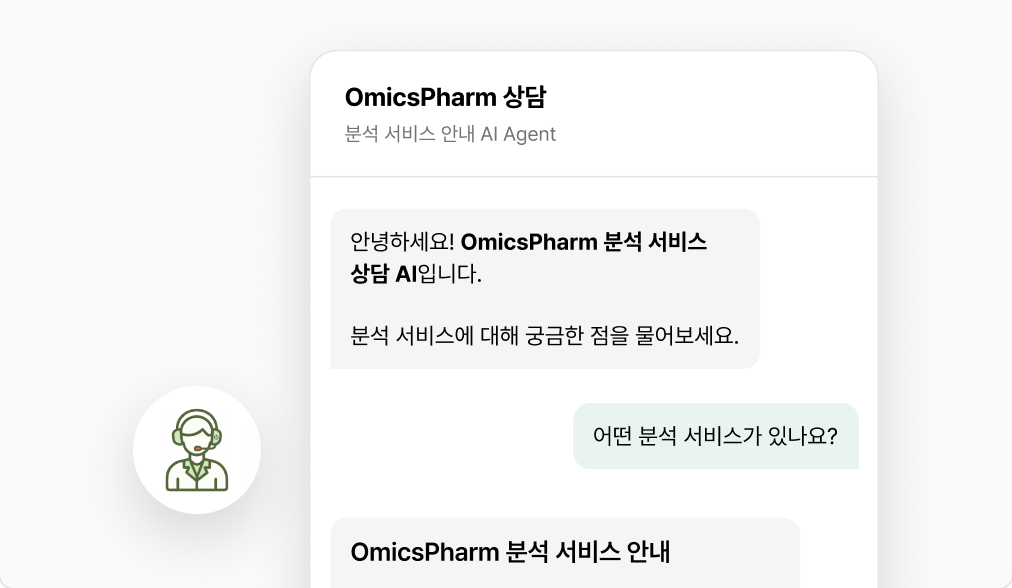
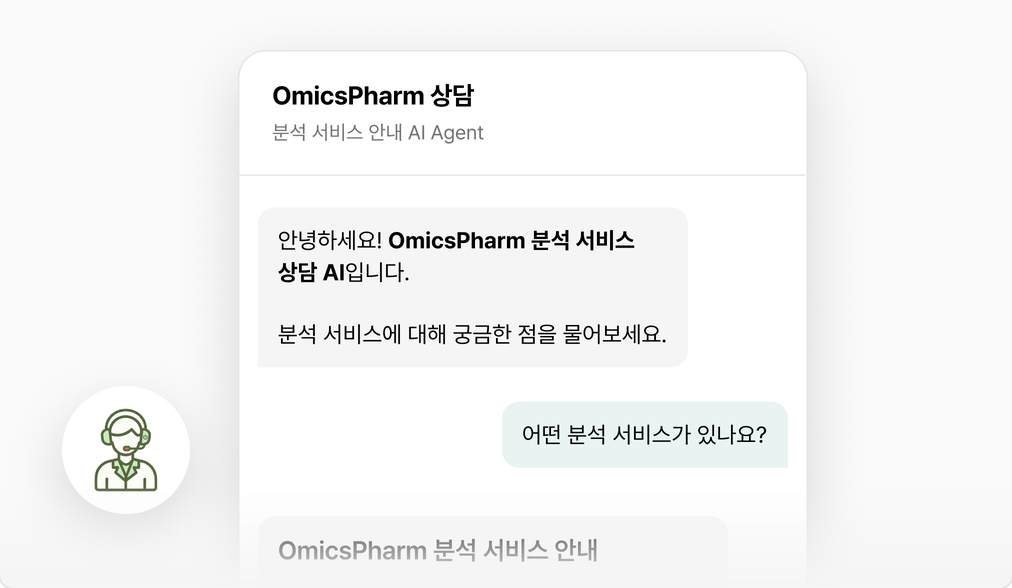
Features: Customer Support 이미지 Figma 재내보내기(상담 화면 가운데), 모바일 설명 띄어쓰기

diff --git a/index.html b/index.html
@@ -135,7 +135,7 @@
   .fb.report > img { left:calc(50% - 203px); width:406px; } .fb.matching > img { left:calc(50% - 449px); width:898px; }
   .fb .fh { position:absolute; left:31px; top:31px; display:flex; flex-direction:column; gap:12px; }
   .fb.report .fh { left:50px; top:32px; width:308px; } .fb.matching .fh { left:39px; top:39px; }
-  .fb::after { content:''; position:absolute; left:0; right:0; bottom:0; height:54px; background:linear-gradient(rgba(245,245,245,0), #f5f5f5); pointer-events:none; } .fb.interpret::after { content:none; } /* 카드 아래 회색 그라디언트 (결과 해석은 Figma 내보내기에 이미 들어 있음) (Figma Rectangle 34624211, 2026-11-05): 화면 이미지가 잘린 끝을 흐리게 */
+  .fb::after { content:''; position:absolute; left:0; right:0; bottom:0; height:54px; background:linear-gradient(rgba(245,245,245,0), #f5f5f5); pointer-events:none; } .fb.interpret::after, .fb.support::after { content:none; } /* 카드 아래 회색 그라디언트 (결과 해석·Customer Support는 Figma 내보내기에 이미 들어 있음) (Figma Rectangle 34624211, 2026-11-05): 화면 이미지가 잘린 끝을 흐리게 */
   .fb .t { display:flex; align-items:center; gap:8px; font-size:18px; font-weight:600; line-height:24px; letter-spacing:-.18px; color:#000; }
   .fb .t .ic { width:24px; height:24px; color:#000; }
   .fb .fh p { font-size:16px; line-height:22px; color:#5b617a; }
@@ -456,7 +456,7 @@
   <div class="feat-bento">
     <div class="fb-row">
       <div class="fb interpret"><div class="fh"><div class="t"><span class="ic" style="--src:url(assets/main/ic-list-magnifying-glass.svg)"></span>AI 기반 결과 해석<span class="ftag beta">Beta</span></div><p>기존 분석 결과를 검색·비교해 결과가 의미하는 바를 쉽게 해석할 수 있도록 돕습니다.</p></div><img src="assets/main/features/bento/interpret.png?v=3" alt="AI 기반 결과 해석 화면 예시"></div>
-      <div class="fb support"><div class="fh"><div class="t"><span class="ic" style="--src:url(assets/main/ic-chats.svg?v=2)"></span>AI Customer Support</div><p>프로젝트 의뢰부터 진행 상황까지 궁금한 점을 AI 챗봇이 언제든<br>빠르게 안내합니다.</p></div><img src="assets/main/features/bento/support.png" alt="AI 상담 챗봇 화면 예시"></div>
+      <div class="fb support"><div class="fh"><div class="t"><span class="ic" style="--src:url(assets/main/ic-chats.svg?v=2)"></span>AI Customer Support</div><p>프로젝트 의뢰부터 진행 상황까지 궁금한 점을 AI 챗봇이 언제든 <br>빠르게 안내합니다.</p></div><img src="assets/main/features/bento/support.png?v=2" alt="AI 상담 챗봇 화면 예시"></div>
     </div>
     <div class="fb-row">
       <div class="fb report"><div class="fh"><div class="t"><span class="ic" style="--src:url(assets/main/ic-file-text.svg?v=2)"></span>AI 기반 보고서 작성<span class="ftag soon">Coming soon</span></div><p>분석 결과를 바탕으로 AI가 보고서 초안을 작성하고 필요한 부분은 바로 수정할 수 있습니다.</p></div><img src="assets/main/features/bento/report.png" alt="AI 보고서 생성 화면 예시"></div>
